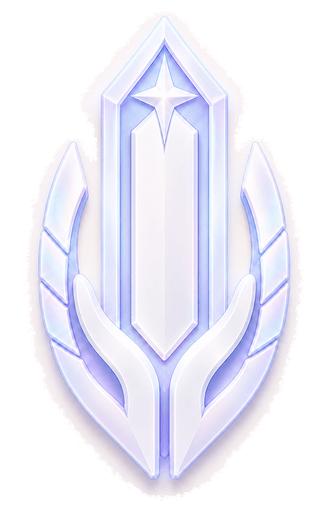
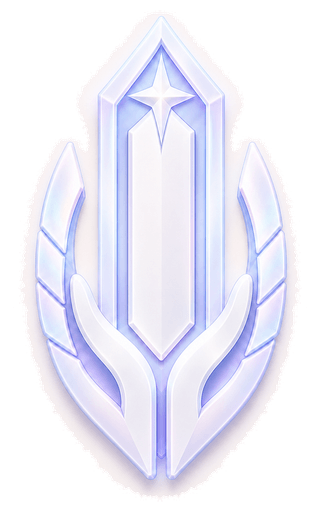
fix(rangs): la paume du Bronze redevient symetrique
Le remplissage entrait dans la paume gauche du Bronze et pas dans la
droite : le creme servait de fond de coupe d'un cote et disparaissait de
l'autre. De loin, ce n'est pas une tache qu'on voit, c'est l'asymetrie.

Choix de Louis : plutot que de creuser pour l'enlever, on rend a chaque
cote ce que son miroir a garde. La passe ajoute, elle ne retire jamais,
donc ce n'est pas la regle des poches qui avait mange le sommet du
cristal. L'axe se cherche autour du centre du dessin au lieu d'etre
suppose au milieu du canevas.

Les six y gagnent : le Bronze prend le rendu de l'Or, les cinq autres
perdent la frange irreguliere de leur contour.

diff --git a/public/rangs/README.md b/public/rangs/README.md
@@ -24,6 +24,10 @@ faire, et son en-tête explique le détail :
 - **il ramène les six à la même échelle**. Dans les planches brutes la gemme
   occupe 74 % de la hauteur pour le Bronze et 96 % pour l'Éternel : affichées à
   hauteur égale, elles sauteraient de taille le long de l'échelle ;
+- **il symétrise**. Les six emblèmes sont symétriques, le détourage ne l'était
+  pas : sur le Bronze un défaut du contour laissait le remplissage entrer dans
+  une paume et pas dans l'autre. Le script rend à chaque côté ce que son miroir
+  a gardé (il ajoute, il ne retire jamais) ;
 - **il retire le vide**. La gemme n'occupait que 44 % de la largeur, donc à
   18 px dans une ligne de conversation il restait environ 8 px de dessin.
 
@@ -43,9 +47,11 @@ un filigrane doré à `252,245,224`. Aucune règle de couleur ne peut les
 distinguer, à aucun seuil.
 
 Conséquence assumée, écrite dans le script : le détourage penche du côté
-**« il peut rester du fond, il ne mange jamais de dessin »**. Il subsiste donc
-une bande crème dans la fente entre le cristal et l'aile du Bronze et de l'Or
-(environ 25 × 107 px sur 320 × 512), visible seulement à la plus grande taille.
+**« il peut rester du fond, il ne mange jamais de dessin »**. Le crème reste donc
+en fond de coupe dans les paumes du Bronze et de l'Or, des deux côtés depuis la
+passe de symétrie. Choix de Louis le 2026-08-20, en voyant le Bronze : plutôt
+que de creuser pour l'enlever, on le rend égal des deux côtés, ce qui donne le
+rendu de l'Or. Une asymétrie se voit de loin, une couleur de fond non.
 
 Pour une future planche, demander **un PNG déjà transparent**, ou à défaut un
 **fond franchement coloré** (vert ou bleu saturé) : le problème disparaît à la
